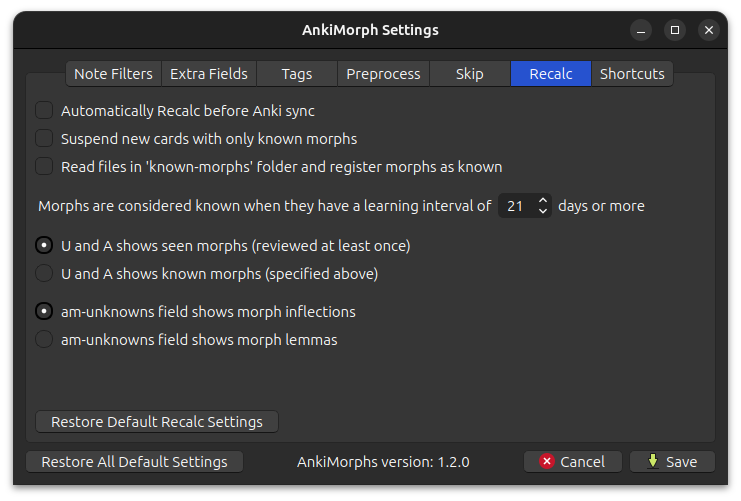
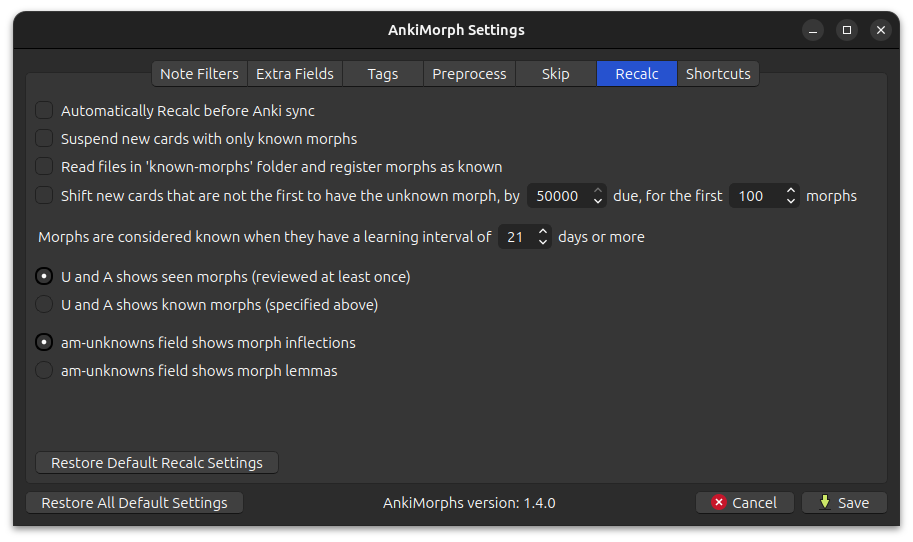
updated docs (#184)

Changed region(s): [[0.0, 0.0, 0.9933, 0.988], [0.4035, 0.0299, 0.5897, 0.0898], [0.8691, 0.3293, 0.9312, 0.3892]]

diff --git a/docs/src/user_guide/setup/settings/recalc.md b/docs/src/user_guide/setup/settings/recalc.md
@@ -12,21 +12,96 @@
   suspended on Recalc.
 * **Read files in 'known-morphs' folder and register morphs as known**:  
   Import known morphs from the known-morphs folder. Read more in [Settings Known Morphs](../setting-known-morphs.md).
+* **Shift new cards that are not the first to have the unknown morph**:  
+  This option is an alternative to the [skip options](skip.md) that are only available on desktop, potentially making it
+  easier to study new cards on mobile.  
+  <br>There are two parameters you can adjust:
+    * How much to shift/offset the due of the affected cards
+    * How many unknown morphs to perform this shift/offset on
+
+  <br>Here is an example card order **without** this option activated:
+  <div class='morph-variation'>
+  <table>
+  <tr>
+      <th style="text-align: center">Card ID</th>
+      <th style="text-align: center">Unknown Morph</th>
+      <th style="text-align: center">Due</th>
+  </tr>
+  <tr>
+      <td>Card_1</td>
+      <td style="text-align: center">break</td>
+      <td>50 001</td>
+  </tr>
+  <tr>
+      <td class="morph-variation-selected_cell">Card_2</td>
+      <td class="morph-variation-selected_cell" style="text-align: center">break</td>
+      <td class="morph-variation-selected_cell">50 002</td>
+  </tr>
+  <tr>
+      <td>Card_3</td>
+      <td style="text-align: center">walk</td>
+      <td>50 003</td>
+  </tr>
+    <tr>
+      <td class="morph-variation-selected_cell">Card_4</td>
+      <td class="morph-variation-selected_cell" style="text-align: center">walk</td>
+      <td class="morph-variation-selected_cell">50 004</td>
+  </tr>
+  </table>
+  </div>
+
+  <br>Here are the same cards but with this option activated (due_shift = 50 000, first_morphs = 2):
+  <div class='morph-variation'>
+  <table>
+  <tr>
+      <th style="text-align: center">Card ID</th>
+      <th style="text-align: center">Unknown Morph</th>
+      <th style="text-align: center">Due</th>
+  </tr>
+  <tr>
+      <td>Card_1</td>
+      <td style="text-align: center">break</td>
+      <td>50 001</td>
+  </tr>
+  <tr>
+      <td>Card_3</td>
+      <td style="text-align: center">walk</td>
+      <td>50 003</td>
+  </tr>
+    <tr>
+      <td class="morph-variation-selected_cell">Card_2</td>
+      <td class="morph-variation-selected_cell" style="text-align: center">break</td>
+      <td class="morph-variation-selected_cell">100 002</td>
+  </tr>
+    <tr>
+      <td class="morph-variation-selected_cell">Card_4</td>
+      <td class="morph-variation-selected_cell" style="text-align: center">walk</td>
+      <td class="morph-variation-selected_cell">100 004</td>
+  </tr>
+  </table>
+  </div>
+  <br>
+
 * **Learning interval of known morphs**:  
-  This is variable is used when text is [highlighted](../../setup/settings/extra-fields.md#using-am-highlighted), and it can determine [U and A numbers](../../installation/changes-to-anki.md#toolbar).
+  This is variable is used when text is [highlighted](../../setup/settings/extra-fields.md#using-am-highlighted), and it
+  can determine [U and A numbers](../../installation/changes-to-anki.md#toolbar).
 * **U and A shows seen morphs**:  
-  [U and A](../../installation/changes-to-anki.md#toolbar) shows all morphs that have been reviewed at least once. This can be more motivating than
+  [U and A](../../installation/changes-to-anki.md#toolbar) shows all morphs that have been reviewed at least once. This
+  can be more motivating than
   only seeing known morphs since it goes up every time you study new cards, but it can also give you a false sense of
   confidence.
 * **U and A shows known morphs**:  
-  [U and A](../../installation/changes-to-anki.md#toolbar) only show known morphs (uses the `Learning interval of known morphs` setting above).
+  [U and A](../../installation/changes-to-anki.md#toolbar) only show known morphs (uses
+  the `Learning interval of known morphs` setting above).
 * **am-unknowns field shows morph inflections**:  
-  The [Extra Field](../../setup/settings/extra-fields.md#using-am-unknowns) `am-unknowns` shows morphs in their inflected forms.
+  The [Extra Field](../../setup/settings/extra-fields.md#using-am-unknowns) `am-unknowns` shows morphs in their
+  inflected forms.
    ``` text
   "walking and talking" -> [walking, and, talking]
    ```
-*  **am-unknowns field shows morph lemmas**:  
-   The [Extra Field](../../setup/settings/extra-fields.md#using-am-unknowns) `am-unknowns` shows morphs in their lemma (base) forms.
-   ``` text
-   "walking and talking" -> [walk, and, talk]
-   ```
+* **am-unknowns field shows morph lemmas**:  
+  The [Extra Field](../../setup/settings/extra-fields.md#using-am-unknowns) `am-unknowns` shows morphs in their lemma (
+  base) forms.
+  ``` text
+  "walking and talking" -> [walk, and, talk]
+  ```
